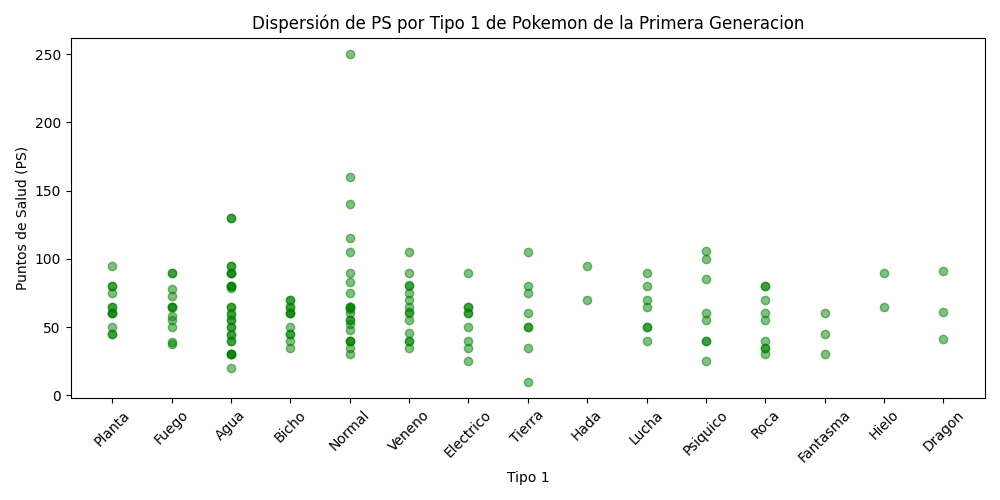
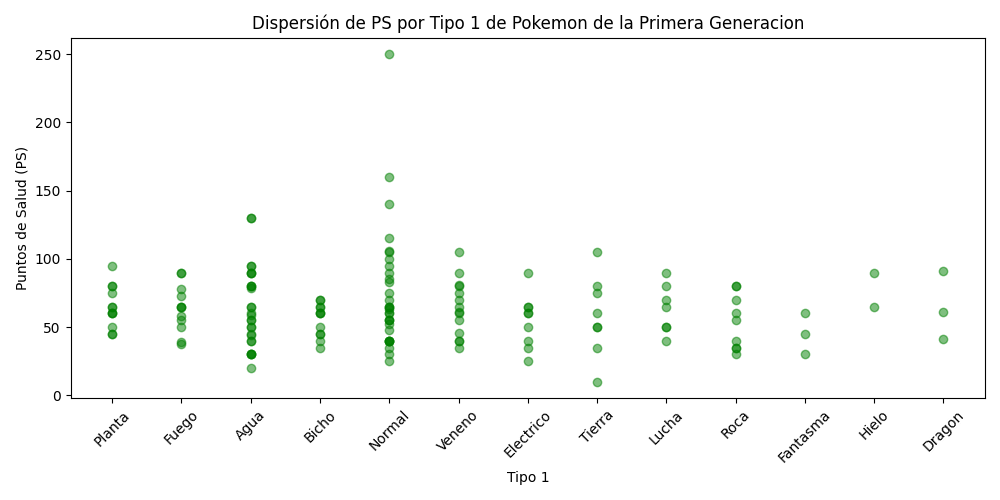
Ejercicio 7 item 1

diff --git a/Tarea-Data-Science-3/ejercicio7.py b/Tarea-Data-Science-3/ejercicio7.py
@@ -12,7 +12,11 @@ import seaborn as sns
 #- Identifica posibles outliers en los valores de ataque y PS usando boxplots.#
 
 #1. ¿Existen tipos de Pokémon que tienden a tener mayor ataque o defensa? Justifica con estadísticas.
-
+comparativa = df.groupby("Tipo 1")[["Ataque","Defensa"]].agg(["mean","median"]).round(1)#agg para usar las funciones mean y median a la vez
+print(comparativa)
+#si hay tipos de pokemon que pueden tender a tener mayot ataque o defensa, como puede ser el caso de los pokemon de tipo lucha que promedio de ataque es de 102.9 pero una defensa mas baja
+#otro caso seria los pokemon tipo roca que tiene un mayor promedio en la defensa, siendo estos los dos tipos que mas resaltan en defensa y ataque, en cuanto a los demas tipos se puede decir que 
+#tienen un promedio mas balanceado entre ataque y defensa, igualmente tienes el tipo dragon con un buen promedio de ataque y el tipo tierra siendo otro buen tipo en defensa.
 
 #2. ¿Hay correlación entre ataque y velocidad? Calcula el coeficiente de correlación.
 

diff --git a/Tarea-Data-Science-3/Limpieza.py b/Tarea-Data-Science-3/Limpieza.py
@@ -25,6 +25,12 @@ df ["Tipo 2"] = df["Tipo 2"].fillna("No tiene")
 #Eliminar Tipo 2 de pokemon de tipos que aun no existian 
 df["Tipo 2"] = df["Tipo 2"].apply(lambda x: x if x in tipos_gen1 else "No tiene")
 
+df["Tipo 1"] = df["Tipo 1"].apply(lambda x: x if x in tipos_gen1 else "Normal")
+
+
+
+
+
 #Correccion de nombre de nidoran
 df["Nombre"] = df["Nombre"].replace({"Nidoran♂": "NidoranM","Nidoran♀": "NidoranF"})
 
